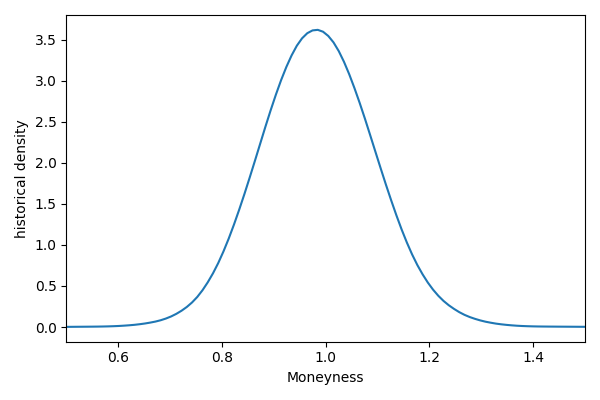
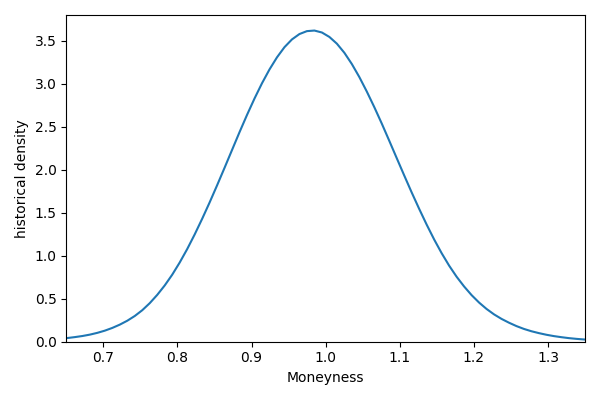
size of plots

diff --git a/spd_trading/risk_neutral_density.py b/spd_trading/risk_neutral_density.py
@@ -339,7 +339,7 @@ class Plot:
             RND (spd_trading.risk_neutral_density.Calculator): Instance of class ``spd_trading.risk_neutral_density.Calculator``.
 
         Returns:
-            plt.figure: Matplotlib figure.
+            Figure: Matplotlib figure.
         """
         fig, (ax0, ax1, ax2, ax3) = plt.subplots(1, 4, figsize=(12, 4))
 
@@ -356,13 +356,13 @@ class Plot:
         ax1.plot(RND.M_smile, RND.second)
         ax1.set_xlabel("Moneyness")
         ax1.set_xlim(1 - self.x, 1 + self.x)
-        ax1.set_ylim(-4)
 
         # density q_k
         ax2.scatter(RND.data.K, RND.data.q, c="r", s=4)
         ax2.plot(RND.K, RND.q_K)
         ax2.set_xlabel("Strike Price")
         ax2.set_ylabel("risk neutral density")
+        ax2.set_ylim(0)
 
         # density q_m
         ax3.scatter(RND.data.M, RND.data.q_M, c="r", s=4)
@@ -370,6 +370,7 @@ class Plot:
         ax3.set_xlabel("Moneyness")
         ax3.set_ylabel("risk neutral density")
         ax3.set_xlim(1 - self.x, 1 + self.x)
+        ax3.set_ylim(0)
 
         plt.tight_layout()
         return fig

diff --git a/spd_trading/historical_density.py b/spd_trading/historical_density.py
@@ -290,6 +290,7 @@ class Plot:
         ax0.set_xlabel("Moneyness")
         ax0.set_ylabel("historical density")
         ax0.set_xlim(1 - self.x, 1 + self.x)
+        ax0.set_ylim(0)
 
         plt.tight_layout()
         return fig

diff --git a/examples/example_calculate_rnd.py b/examples/example_calculate_rnd.py
@@ -26,7 +26,7 @@ RND = rnd.Calculator(
 )
 RND.calc_rnd()
 
-RndPlot = rnd.Plot()  # Rookley Method algorithm plot
+RndPlot = rnd.Plot(x=0.35)  # Rookley Method algorithm plot
 fig_method = RndPlot.rookleyMethod(RND)
 
 plt.show()

diff --git a/examples/example_calculate_hd.py b/examples/example_calculate_hd.py
@@ -24,7 +24,7 @@ HD = hd.Calculator(
 )
 HD.get_hd(variate=True)
 
-HdPlot = hd.Plot()  # Rookley Method algorithm plot
+HdPlot = hd.Plot(x=0.35)  # Rookley Method algorithm plot
 fig_denstiy = HdPlot.density(HD)
 
 plt.show()

diff --git a/docs/text/examples.rst b/docs/text/examples.rst
@@ -36,6 +36,8 @@ Use the class ``risk_neutral_density.Calculator`` in order to estimate the RND v
     plt.show()
 
 .. image:: ../_static/example_rnd.png
+    :height: 250
+    :align: center
 
 Estimate Historical Density with ``historical_density.Calculator``
 ------------------------------------------------------------------
@@ -73,7 +75,8 @@ Use the class ``historical_density.Calculator`` in order to estimate the HD via 
     plt.show()
 
 .. image:: ../_static/example_hd.png
-
+    :height: 250
+    :align: center
 
 Calculate and Plot Kernel with ``kernel.Plot``
 ----------------------------------------------------------------
@@ -126,10 +129,21 @@ Estimate RND and HD as shown in the previous examples, then use ``kernel.Plot`` 
     )
     HD.get_hd(variate=True)
 
-    # -------------------------------------------------------------------------- KERNEL
-    TradingPlot = ker.Plot()         # kernel plot - comparison of rnd and hd
-    fig_strategy = TradingPlot.kernelplot(RND, HD)
-
-    plt.show()
+    # ----------------------------------------------------------------------- KERNEL
+    Kernel = ker.Calculator(
+        tau_day=evaluation_tau, 
+        date=evaluation_day, 
+        RND=RND, 
+        HD=HD, 
+        similarity_threshold=0.15, 
+        cut_tail_percent=0.02
+    )
+    Kernel.calc_kernel()
+    Kernel.calc_trading_intervals()
+    
+    TradingPlot = ker.Plot(x=0.35)  # kernel plot - comparison of rnd and hd
+    fig_strategy = TradingPlot.kernelplot(Kernel)
 
 .. image:: ../_static/example_kernel.png
+    :height: 250
+    :align: center
